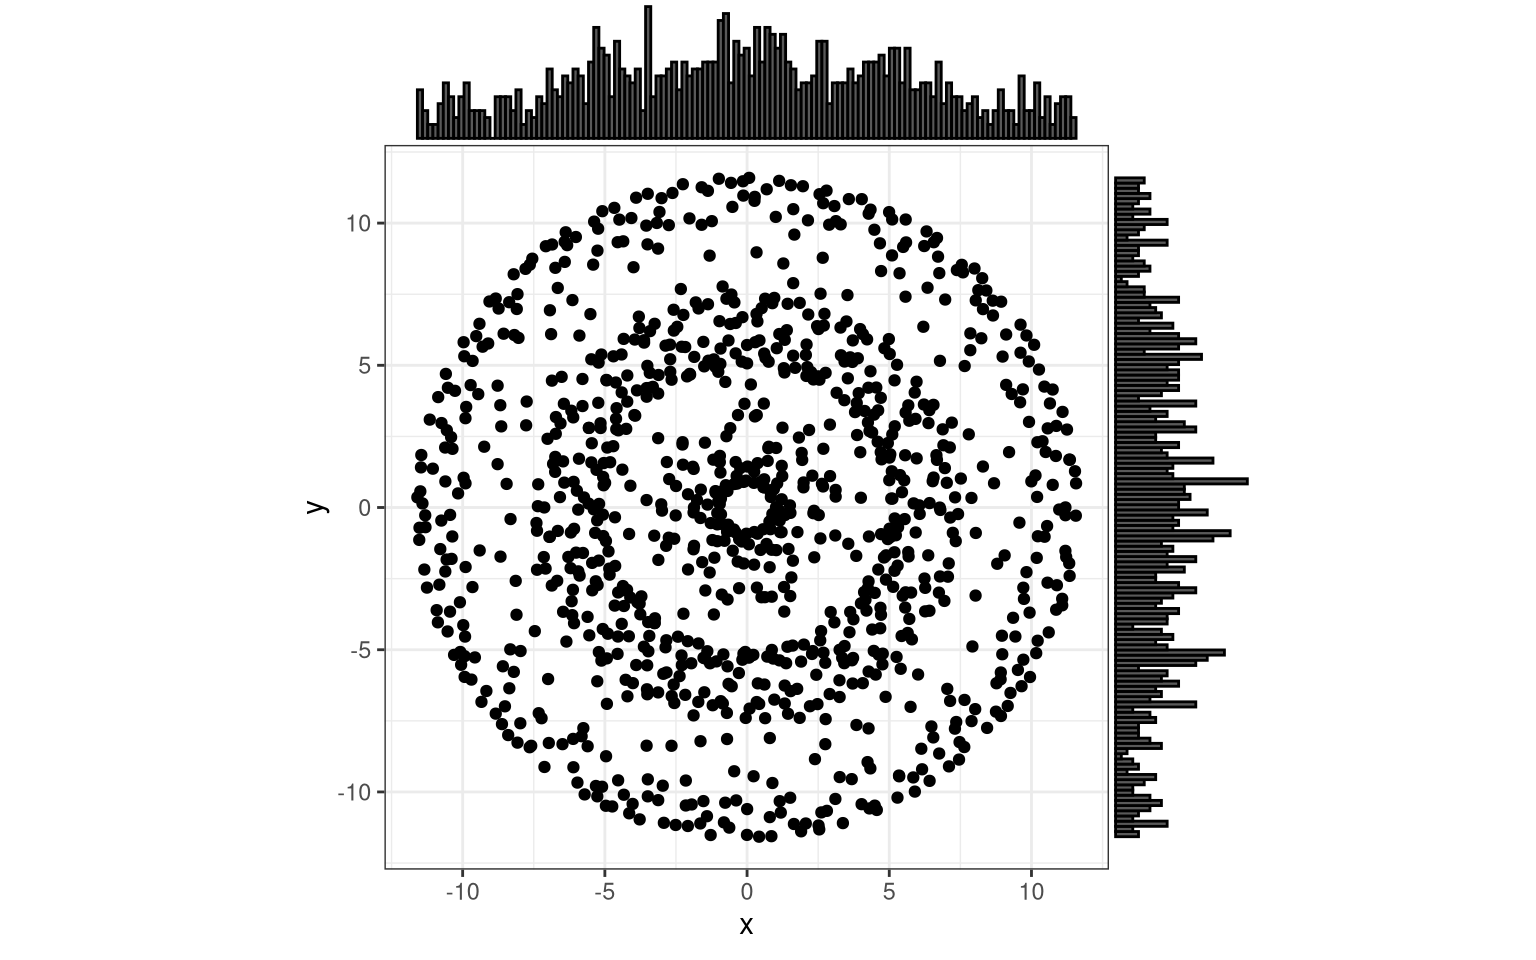
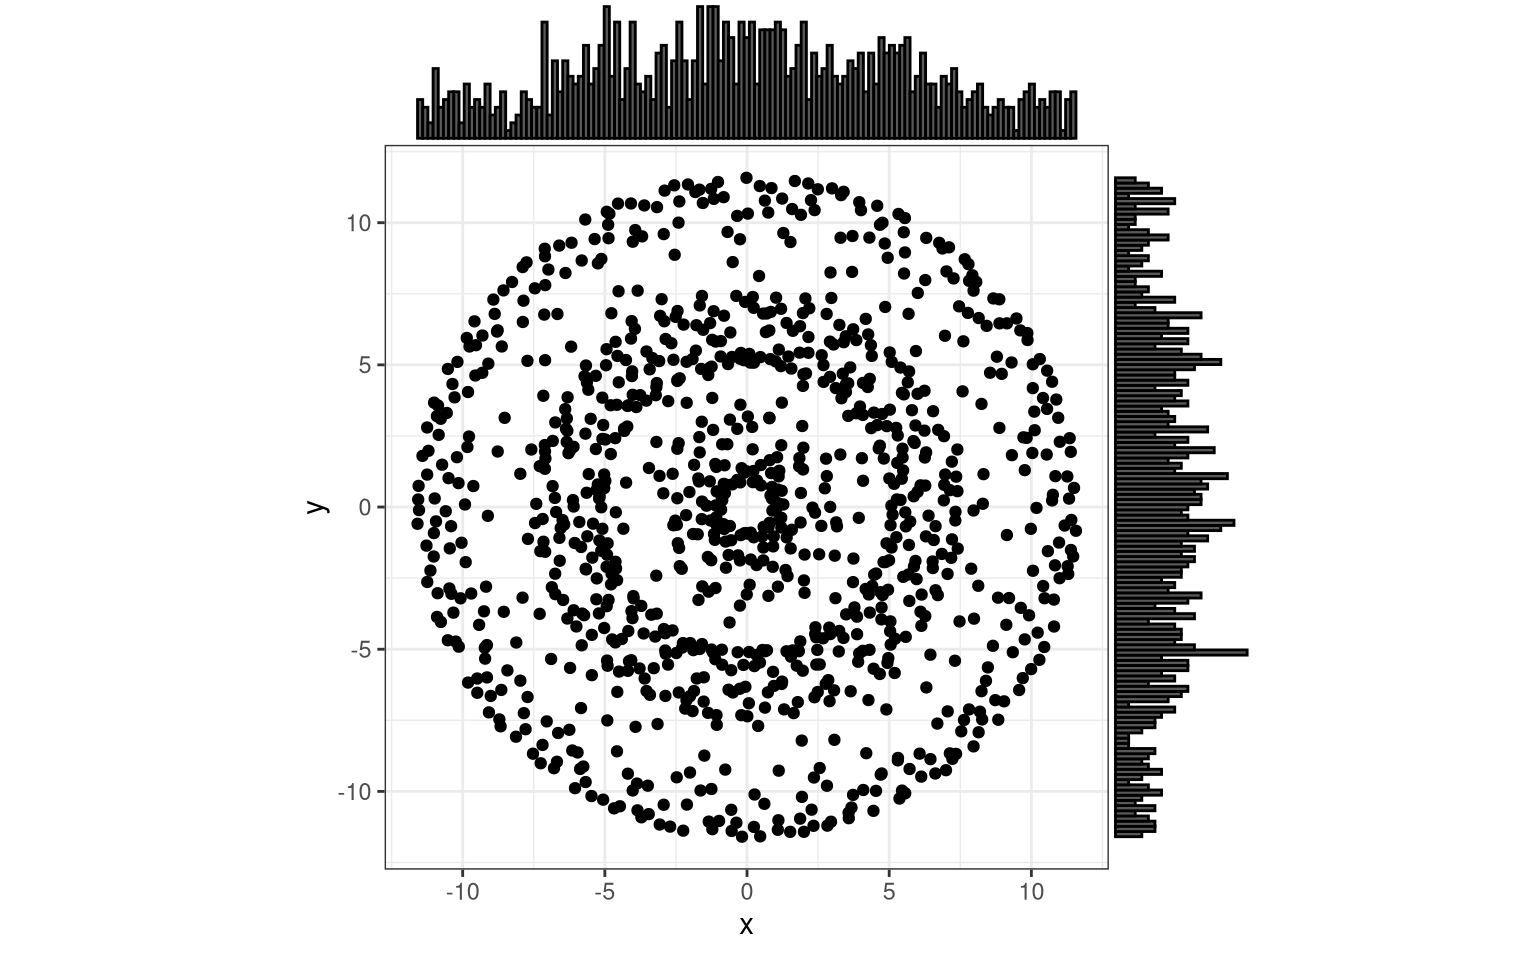
trafo_spat_bal: ++Gaussian

diff --git a/content/tutorials/spatial_transform_balanced_samples/index.md b/content/tutorials/spatial_transform_balanced_samples/index.md
@@ -496,12 +496,18 @@ trial( function(x) atan(4*x) )
 
 <img src="index.markdown_strict_files/figure-markdown_strict/border-preference-1.png" width="768" />
 
-{{% callout note %}}
+You can try to approximate [a Gaussian](https://en.wikipedia.org/wiki/Gaussian_function#Two-dimensional_Gaussian_function), and I am sure there is an analytical way to represent it in polar coordinates ([see also](https://math.stackexchange.com/questions/2124869/converting-a-uniform-distribution-variable-to-a-normal-distribution-one)).
+However, if you need a Gaussian, you could also directly go to the 2D Gauss function, without the need for the polar-to-cartesian transformation trick.
 
-Note that I herein transformed `r` and `phi` independently; in fact, I mostly just experimented with the distance.
-The real fun stuff happens when transformation contains a combination of both (for example, as [this post implies](https://math.stackexchange.com/questions/2124869/converting-a-uniform-distribution-variable-to-a-normal-distribution-one), you could transform into a Gaussian).
+``` r
+sigma <- 0.5
+gauss <- function(r) r*exp((r^2)/(2*sigma^2))
+# xi <- seq(0., 1., length.out = 101)
+# plot(xi, gauss(xi))
+trial( gauss )
+```
 
-{{% /callout %}}
+<img src="index.markdown_strict_files/figure-markdown_strict/gaussian-like-1.png" width="768" />
 
 You can even get periodical, concentric bands of points, and as you would suspect these require trigonometric functions and/or complex numbers.
 
